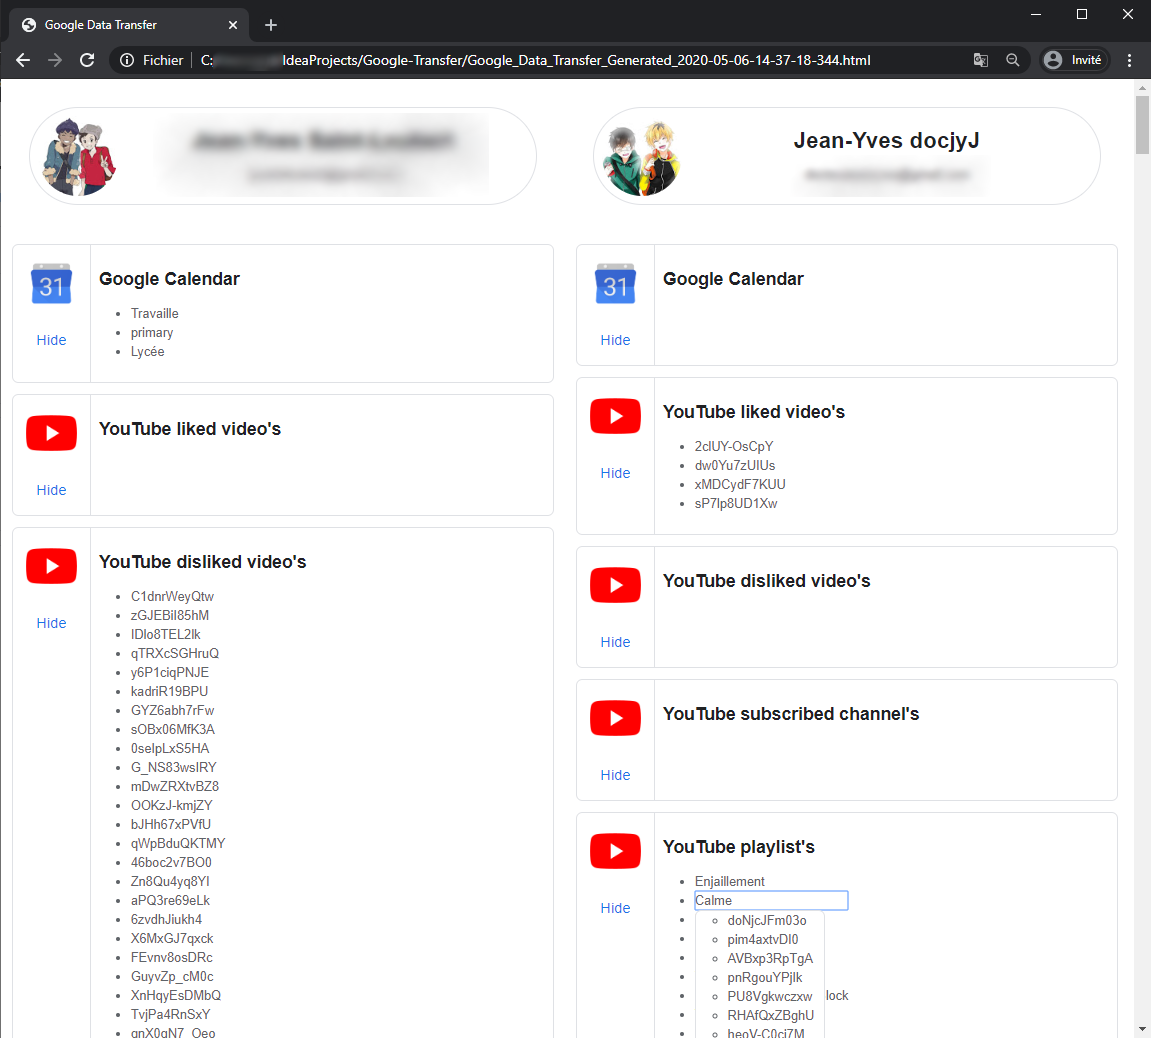
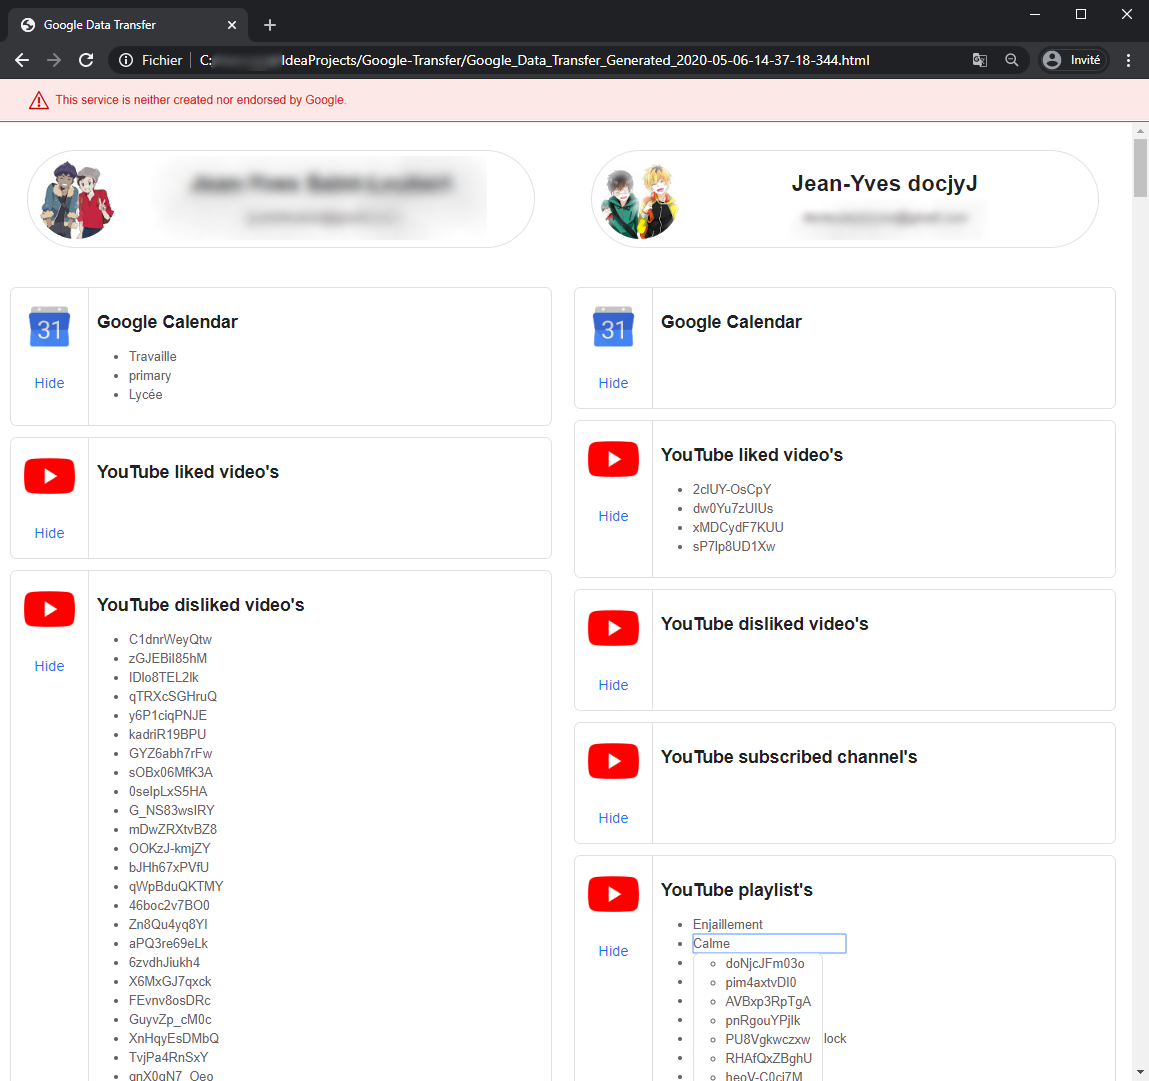
add warn

diff --git a/src/main/resources/style.css b/src/main/resources/style.css
@@ -16,6 +16,24 @@ a, body{
     letter-spacing:normal;
     line-height:24px;
 }
+.warning {
+    background: #fce8e6;
+    color: #d50000;
+    border-bottom: #d50000 solid 1px;
+    margin: 0;
+    padding: 16px 76px;
+}
+.warning:before {
+    float: left;
+    margin-left: -36px;
+    content: "⚠";
+    text-rendering: optimizeLegibility;
+    text-transform: none;
+    word-wrap: normal;
+    box-sizing: inherit;
+    font-size: 200%;
+}
+
 h1{
     color: rgb(32, 33, 36);
     font-size:28px;

diff --git a/src/main/java/fr/docjyJ/googleTransfer/app/Main.java b/src/main/java/fr/docjyJ/googleTransfer/app/Main.java
@@ -33,6 +33,7 @@ public class Main {
     private Main() throws Exception {
         UIManager.setLookAndFeel(UIManager.getSystemLookAndFeelClassName());
         SwingUtilities.updateComponentTreeUI(new JFrame());
+        showWarn(Lang.WARNING);
         this.IconYoutube = createImageByte(ImageIO.read(getClass().getResource("/icon/Youtube.png")));
         this.IconCalendar = createImageByte(ImageIO.read(getClass().getResource("/icon/Calendar.png")));
         this.IconGmail = createImageByte(ImageIO.read(getClass().getResource("/icon/Gmail.png")));
@@ -208,6 +209,7 @@ public class Main {
         input.put("style", createStringFile("/style.css"));
         input.put("script", createStringFile("/script.js"));
         input.put("hide", Lang.HIDE_BUTTON);
+        input.put("warning", Lang.WARNING);
         File file =new File("Google_Data_Transfer_Generated_" +
                 new SimpleDateFormat("yyyy-MM-dd-HH-mm-ss-SSS").format(new Date().getTime()) +
                 ".html");
@@ -256,23 +258,33 @@ public class Main {
             exit(integr);
 
     }
+    private void showWarn(String message){
+        int integer = JOptionPane.showConfirmDialog(null,
+                message,
+                Lang.APPLICATION_NAME,
+                JOptionPane.OK_CANCEL_OPTION,
+                JOptionPane.WARNING_MESSAGE);
+        if(integer != 0)
+            exit(integer);
+
+    }
     private boolean showQuestion(String message){
-        int integr = JOptionPane.showConfirmDialog(null,
+        int integer = JOptionPane.showConfirmDialog(null,
                 message,
                 Lang.APPLICATION_NAME,
                 JOptionPane.YES_NO_CANCEL_OPTION,
                 JOptionPane.QUESTION_MESSAGE);
-        if(integr != 0 & integr != 1)
+        if(integer != 0 & integer != 1)
             exit(0);
-        return 0 == integr;
+        return 0 == integer;
     }
     private void showInfo(String message){
-        int integr = JOptionPane.showConfirmDialog(null,
+        int integer = JOptionPane.showConfirmDialog(null,
                 message,
                 Lang.APPLICATION_NAME,
                 JOptionPane.OK_CANCEL_OPTION,
                 JOptionPane.INFORMATION_MESSAGE);
-        if(integr != 0)
+        if(integer != 0)
             exit(0);
     }
     private void exit(int status){

diff --git a/src/main/java/fr/docjyJ/googleTransfer/api/Services/youtube/YoutubeElement.java b/src/main/java/fr/docjyJ/googleTransfer/api/Services/youtube/YoutubeElement.java
@@ -176,7 +176,6 @@ public class YoutubeElement extends GoogleTransfer {
                     .execute()
                     .getId();
             for (IdKeyElement item :playlist.getContent()){
-
                 logPrint("READ", "playlist",playlist.getName(),item.getName());
                 service.playlistItems()
                         .insert("snippet", (PlaylistItem) item.getObject())

diff --git a/src/main/java/fr/docjyJ/googleTransfer/app/Lang.java b/src/main/java/fr/docjyJ/googleTransfer/app/Lang.java
@@ -1,6 +1,7 @@
 package fr.docjyJ.googleTransfer.app;
 
 class Lang {
+    static final String WARNING = "This app is neither created nor endorsed by Google.";
     static final String HIDE_BUTTON = "Hide";
     static final String APPLICATION_NAME = "Google Data Transfer";
     static final String FIRST_STEP = "First we will connect to the account that contains the data.";

diff --git a/README.md b/README.md
@@ -1,6 +1,9 @@
 # Google-Transfer
 Transfer Google data from one account to another.
 
+| WARNING: This app is neither created nor endorsed by Google. |
+| --- |
+
 ## Transferable data and service
 * YouTube **(works, but API quota's is limited)**
     * liked videos
